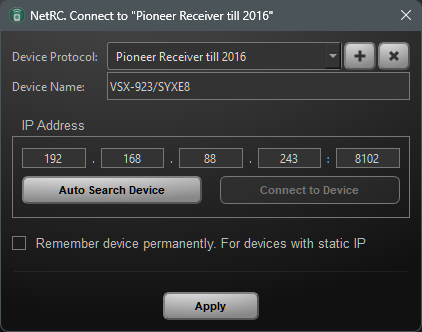
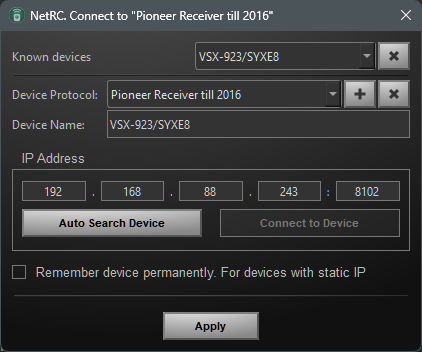
Add saved device remove

diff --git a/src/deviceconnector.cpp b/src/deviceconnector.cpp
@@ -22,19 +22,17 @@
 #include "ui_deviceconnector.h"
 #include "rcsettings.h"
 #include "autosearchdialog.h"
-#include "commons.h"
 
 DeviceConnector::DeviceConnector(QVariant &sets, QWidget *parent) :
     QDialog(parent),
     settings(sets),
     ui(new Ui::DeviceConnector)
 {
-    this->setStyleSheet("");
     ui->setupUi(this);
     QString family = settings.toMap().value("family").toString();
     setWindowTitle(qApp->applicationName().append(". Connect to \"").append(family).append("\""));
 
-    //setWindowFlags(WINDOW_FLAGS);
+    ui->knownDevicesComboBox->addItems(RCSettings::devicesList());
 
     if(!family.isEmpty()) {
         ui->deviceProtocol->addItem(family);
@@ -59,6 +57,8 @@ DeviceConnector::DeviceConnector(QVariant &sets, QWidget *parent) :
     connect(ui->loadConfig, SIGNAL(clicked()), this, SLOT(loadConfigClicked()));
     connect(ui->deviceProtocol, SIGNAL(currentTextChanged(const QString &)),
             this, SLOT(deviceProtocolCurrentIndexChanged(const QString &)));
+    connect(ui->knownDevicesComboBox,SIGNAL(currentIndexChanged(int)),
+            this, SLOT(onKnownDevicesComboBoxCurrentIndexChanged(int)));
     reloadDevicesFamily();
 }
 
@@ -69,6 +69,11 @@ DeviceConnector::~DeviceConnector() {
 void DeviceConnector::setDevice(QString deviceFamily, QString device, QString address, unsigned int port) {
     ui->deviceProtocol->setCurrentText(deviceFamily);
     ui->line_DeviceName->setText(device);
+
+    if(!ui->line_DeviceName->text().isEmpty()) {
+        ui->knownDevicesComboBox->setCurrentText(ui->line_DeviceName->text());
+    }
+
     QStringList l = address.split(QRegularExpression("[.]"), Qt::SkipEmptyParts);
     if (l.size() == 4) {
         if(port == 0) {
@@ -175,6 +180,8 @@ void DeviceConnector::select(QVariant vars) {
 
 void DeviceConnector::reloadDevicesFamily() {
     QStringList saved = RCSettings::settingsList();
+    ui->knownDevicesComboBox->clear();
+    ui->knownDevicesComboBox->addItems(RCSettings::devicesList());
     saved.sort();
     ui->deviceProtocol->clear();
     ui->deviceProtocol->addItems(saved);
@@ -189,6 +196,7 @@ void DeviceConnector::deviceProtocolCurrentIndexChanged(const QString &arg1) {
         select(RCSettings::load(arg1));
         ui->lineEditIPPort->setText(settings.toMap().value("prefferedPort").toString());
         ui->line_DeviceName->setText("");
+
         ui->lineEditIP4->setText("?");
         if(ui->deviceProtocol->findText(arg1) > 0) {
             ui->deviceProtocol->setCurrentIndex(ui->deviceProtocol->findText(arg1));
@@ -213,4 +221,24 @@ void DeviceConnector::deleteFamilyClicked() {
     }
 }
 
+
+
+void DeviceConnector::onKnownDevicesComboBoxCurrentIndexChanged(int index) {
+    qDebug() << ui->knownDevicesComboBox->itemText(index);
+    QVariant sets = RCSettings::deviceSettings(ui->knownDevicesComboBox->itemText(index));
+    qDebug() << ui->knownDevicesComboBox->itemText(index) <<sets;
+    if (sets.isValid()) {
+        setDevice(sets.toMap().value("deviceFamily", "").toString(),
+                sets.toMap().value("deviceName", "").toString(),
+                sets.toMap().value("deviceIPAddress", "").toString(),
+                sets.toMap().value("devicePort").toUInt());
+    }
+}
+
+
+void DeviceConnector::on_pushButton_clicked() {
+   RCSettings::removeDevice(QString(ui->knownDevicesComboBox->currentText()));
+   ui->knownDevicesComboBox->clear();
+   ui->knownDevicesComboBox->addItems(RCSettings::devicesList());
+}
 

diff --git a/src/rcsettings.cpp b/src/rcsettings.cpp
@@ -69,9 +69,54 @@ void RCSettings::updateSettings(QString & family, QVariant value) {
     QSettings sets(qApp->organizationName(), qApp->applicationName());
     sets.beginGroup("global");
     sets.beginGroup("family");
-    sets.setValue(family,value);
+    sets.setValue(family, value);
     sets.endGroup();
     sets.endGroup();
+}
+
+QVariant RCSettings::deviceSettings(QString device) {
+    QSettings sets(qApp->organizationName(), qApp->applicationName());
+    sets.beginGroup("global");
+    sets.beginGroup("devices");
+    QString section = device.replace("/", "@@");
+    sets.beginGroup(section);
+    QMap<QString,QVariant> value;
+    foreach(QString key,sets.allKeys()) {
+        value.insert(key, sets.value(key));
+    }
+
+    qDebug() << sets.value("deviceName");
+
+    sets.endGroup();
+    sets.endGroup();
+    sets.endGroup();
+    return QVariant(value);
+}
+
+void RCSettings::removeDevice(QString device) {
+    QSettings sets(qApp->organizationName(), qApp->applicationName());
+    QString section = device.replace("/", "@@");
+    sets.remove(QString("global/devices/").append(section));
+}
+
+QList<QString> RCSettings::devicesList() {
+    QStringList values;
+    QSettings sets(qApp->organizationName(), qApp->applicationName());
+    sets.beginGroup("global");
+    sets.beginGroup("devices");
+    values = sets.childGroups();
+    sets.endGroup();
+    sets.endGroup();
+
+    QStringList result;
+    if(!values.isEmpty()) {
+        foreach(QString device, values) {
+            result.append(device.replace("@@", "/"));
+        }
+    }
+
+    return result;
+
 }
 
 QList<QString> RCSettings::settingsList() {

diff --git a/src/remotecontrol.cpp b/src/remotecontrol.cpp
@@ -401,14 +401,7 @@ void RemoteControl::newDevice() {
 
 }
 void RemoteControl::connectCustomMenuRequested(const QPoint &pos) {
-    QList<QString> devices;
-    QSettings sets(qApp->organizationName(), qApp->applicationName());
-    sets.beginGroup("global");
-    sets.beginGroup("devices");
-    devices = sets.childGroups();
-    sets.endGroup();
-    sets.endGroup();
-
+    QList<QString> devices = RCSettings::devicesList();
 
     if(devices.isEmpty()) {
         newDevice();
@@ -416,7 +409,7 @@ void RemoteControl::connectCustomMenuRequested(const QPoint &pos) {
     else {
         QMenu menu(ui->connectButton);
         foreach(QString device, devices) {
-            menu.addAction(QString(device).replace("@@","/"), this, SLOT(reloadAndReconnect()));
+            menu.addAction(QString(device), this, SLOT(reloadAndReconnect()));
         }
         menu.addSeparator();
         menu.addAction("&Device Management", this, SLOT(newDevice()));

diff --git a/src/include/rcsettings.h b/src/include/rcsettings.h
@@ -26,7 +26,10 @@ public:
     RCSettings();
     QVariant static load(QFile &file);
     QVariant static load(const QString family);
+    QVariant static deviceSettings(QString device);
     QList<QString> static settingsList();
+    QList<QString> static devicesList();
+    void static removeDevice(QString device);
     void static remove(QString family);
     bool static isMinimizeToTrayEnabled();
     bool static isSaveLatestDeviceEnabled();

diff --git a/src/include/deviceconnector.h b/src/include/deviceconnector.h
@@ -41,8 +41,12 @@ private slots:
     void autoSearchClicked();
     void applyButtonClicked();
     void loadConfigClicked();
-    void deviceProtocolCurrentIndexChanged(const QString &arg1);
+    void deviceProtocolCurrentIndexChanged(const QString &);
     void deleteFamilyClicked();
+
+    void onKnownDevicesComboBoxCurrentIndexChanged(int index);
+
+    void on_pushButton_clicked();
 
 private:
     Ui::DeviceConnector *ui;
